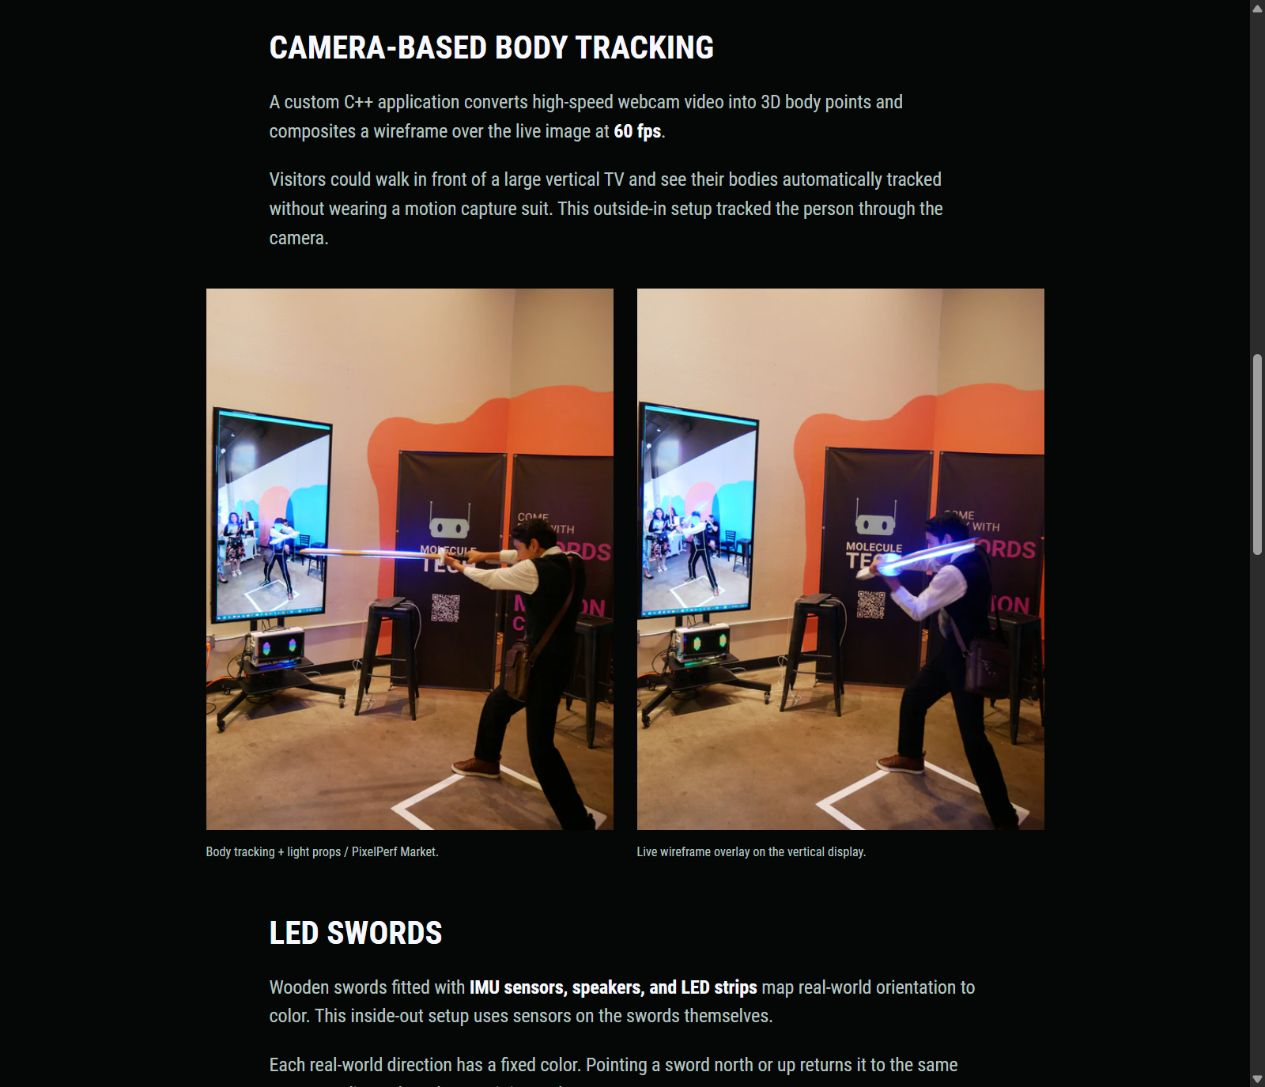
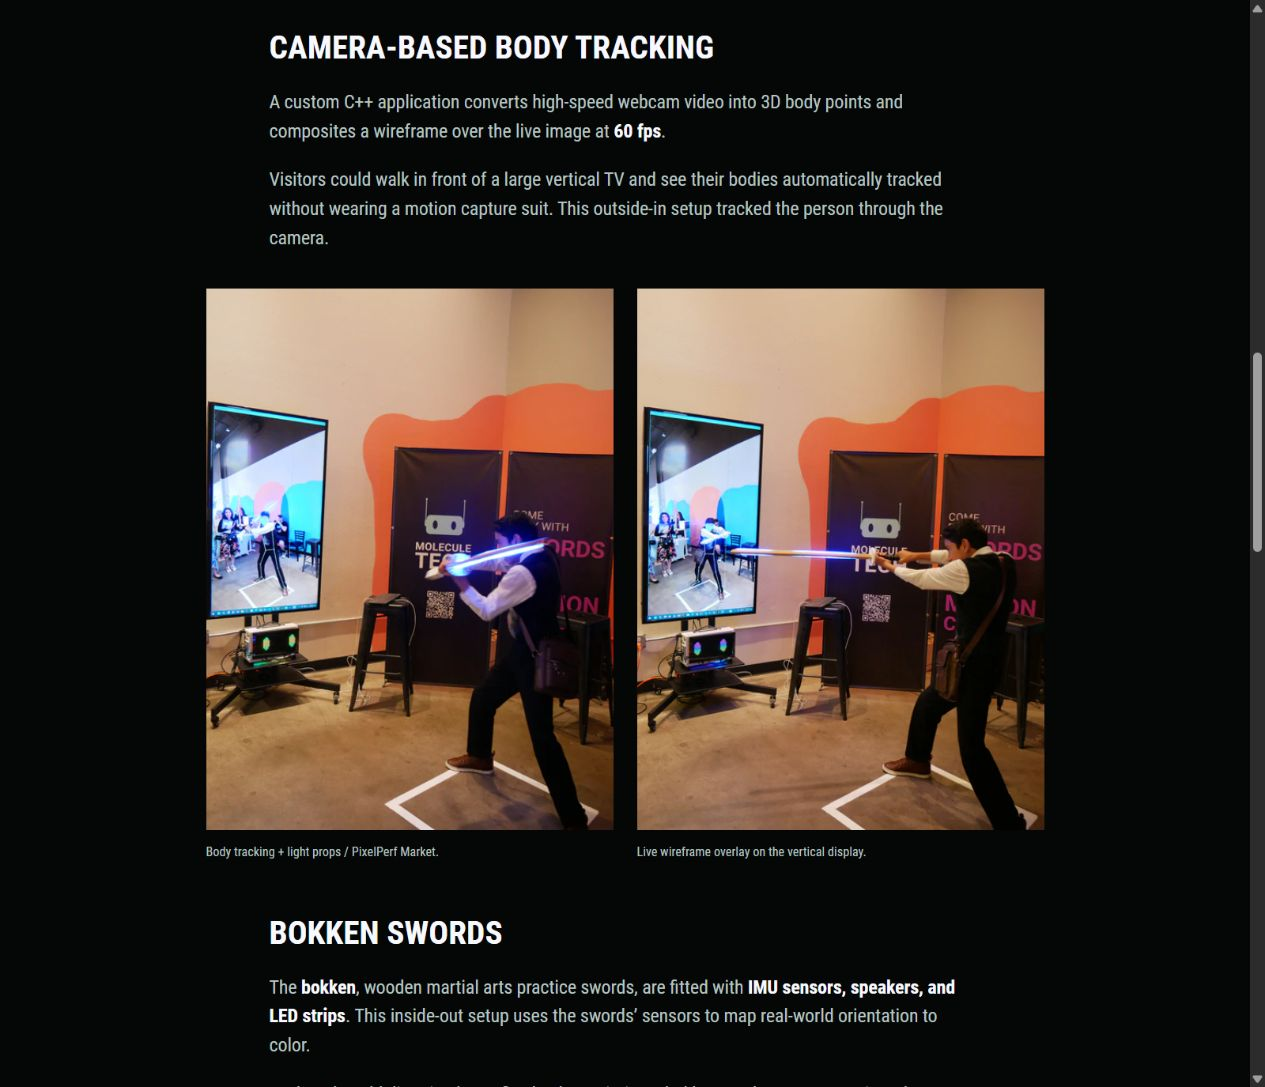
Show bokken windup first and update prop terminology

Changed region(s): [[0.1542, 0.3643, 0.8324, 0.7893], [0.2158, 0.85, 0.7708, 1.0]]

diff --git a/content/work/motion-capture-lightsabers/index.md b/content/work/motion-capture-lightsabers/index.md
@@ -1,19 +1,19 @@
 ---
 title: "Motion Capture + Lightsabers"
-description: "Two motion capture demos: camera-based body tracking at 60 fps, and wooden swords with LEDs that change color with their orientation."
+description: "Two motion capture demos: camera-based body tracking at 60 fps, and bokken swords with LEDs that change color with their orientation."
 weight: 60
 tags: [experimental]
 context: "Molecule / Test installation"
-contribution: "C++ body tracking application + sensor-equipped wooden swords"
+contribution: "C++ body tracking application + sensor-equipped bokken"
 projectContext: "An independent test installation at PixelPerf Market, Moongoat Coffee"
 aliases: ["/work/moongoat/", "/experiments/moongoat/"]
 hero: "portfolio/molecule/pixelperf-body-tracking.jpg"
-heroAlt: "A visitor using an illuminated sword beside the vertical body-tracking screen at PixelPerf Market."
+heroAlt: "A visitor using an illuminated bokken beside the vertical body-tracking screen at PixelPerf Market."
 heroCaption: "PixelPerf Market / Moongoat Coffee."
 imageClass: "uncropped"
 ---
 
-A small test installation at PixelPerf Market, Moongoat Coffee, demonstrated camera-based body tracking and orientation-controlled light props.
+A small test installation at PixelPerf Market, Moongoat Coffee, demonstrated camera-based body tracking and orientation-controlled bokken.
 
 ## Camera-based body tracking
 
@@ -22,23 +22,23 @@ A custom C++ application converts high-speed webcam video into 3D body points an
 Visitors could walk in front of a large vertical TV and see their bodies automatically tracked without wearing a motion capture suit. This outside-in setup tracked the person through the camera.
 
 {{< media-grid >}}
-{{< work-image source="portfolio/molecule/pixelperf-sword-pointing.jpg" alt="A visitor pointing an illuminated sword toward the body-tracking screen." caption="Body tracking + light props / PixelPerf Market." >}}
-{{< work-image source="portfolio/molecule/pixelperf-sword-movement.jpg" alt="A visitor moving an illuminated sword while the vertical screen shows the tracked body." caption="Live wireframe overlay on the vertical display." >}}
+{{< work-image source="portfolio/molecule/pixelperf-sword-movement.jpg" alt="A visitor winding up an illuminated bokken beside the body-tracking display." caption="Body tracking + light props / PixelPerf Market." >}}
+{{< work-image source="portfolio/molecule/pixelperf-sword-pointing.jpg" alt="A visitor pointing an illuminated bokken toward the body-tracking screen." caption="Live wireframe overlay on the vertical display." >}}
 {{< /media-grid >}}
 
-## LED swords
+## Bokken swords {#led-swords}
 
-Wooden swords fitted with **IMU sensors, speakers, and LED strips** map real-world orientation to color. This inside-out setup uses sensors on the swords themselves.
+The **bokken**, wooden martial arts practice swords, are fitted with **IMU sensors, speakers, and LED strips**. This inside-out setup uses the swords' sensors to map real-world orientation to color.
 
-Each real-world direction has a fixed color. Pointing a sword north or up returns it to the same corresponding color, wherever it is used.
+Each real-world direction has a fixed color. Pointing a bokken north or up returns it to the same corresponding color, wherever it is used.
 
-{{< work-video source="portfolio/molecule/pixelperf-sword-demo.mp4" poster="portfolio/molecule/pixelperf-sword-demo.jpg" class="portrait" label="Play the orientation-controlled lightsaber demonstration at PixelPerf Market" caption="Orientation-controlled lightsaber demo / PixelPerf Market." >}}
+{{< work-video source="portfolio/molecule/pixelperf-sword-demo.mp4" poster="portfolio/molecule/pixelperf-sword-demo.jpg" class="portrait" label="Play the orientation-controlled bokken demonstration at PixelPerf Market" caption="Orientation-controlled bokken demo / PixelPerf Market." >}}
 
-### Lightsaber prototypes
+### Bokken prototypes {#lightsaber-prototypes}
 
 {{< media-grid >}}
-{{< work-image source="portfolio/molecule/lightsaber-prototype-held.jpg" alt="An early wooden lightsaber prototype held horizontally, with the exposed LED strip illuminated in several colors." caption="Early wooden lightsaber prototype." >}}
-{{< work-image source="portfolio/molecule/lightsaber-prototype-lit.jpg" class="portrait" alt="An illuminated wooden lightsaber prototype leaning upright against a wall." caption="Illuminated prototype." >}}
+{{< work-image source="portfolio/molecule/lightsaber-prototype-held.jpg" alt="An early bokken lightsaber prototype held horizontally, with the exposed LED strip illuminated in several colors." caption="Early bokken lightsaber prototype." >}}
+{{< work-image source="portfolio/molecule/lightsaber-prototype-lit.jpg" class="portrait" alt="An illuminated bokken prototype leaning upright against a wall." caption="Illuminated bokken prototype." >}}
 {{< /media-grid >}}
 
 ## Custom Patch computer
@@ -53,8 +53,8 @@ Patch is a custom computer with an animated LED matrix display.
 ## PixelPerf Market
 
 {{< media-grid >}}
-{{< work-image source="portfolio/molecule/pixelperf-installation-wide.jpg" alt="Visitors watching the sword and body-tracking demonstration inside Moongoat Coffee." caption="The test installation at Moongoat Coffee." >}}
-{{< work-image source="portfolio/molecule/pixelperf-sword-visitor.jpg" alt="A young visitor holding an illuminated sword beside the display and Molecule banner." caption="PixelPerf Market / Moongoat Coffee." >}}
+{{< work-image source="portfolio/molecule/pixelperf-installation-wide.jpg" alt="Visitors watching the bokken and body-tracking demonstration inside Moongoat Coffee." caption="The test installation at Moongoat Coffee." >}}
+{{< work-image source="portfolio/molecule/pixelperf-sword-visitor.jpg" alt="A young visitor holding an illuminated bokken beside the display and Molecule banner." caption="PixelPerf Market / Moongoat Coffee." >}}
 {{< /media-grid >}}
 
 ## Current hardware work

diff --git a/docs/portfolio/31-molecule-selected-media.md b/docs/portfolio/31-molecule-selected-media.md
@@ -7,11 +7,11 @@ Russell supplied ten specific archive files for Motion Capture + Lightsabers, gr
 ## Applied presentation
 
 - The landscape photograph of a visitor beside the body-tracking screen is the new lead on Home, Work, and the case study.
-- Two portrait photographs show a visitor using the swords in front of the live tracking display.
+- Two portrait photographs show a visitor using the bokken in front of the live tracking display, with the windup before the extended pose.
 - The event GIF becomes a manually played portrait video beneath the orientation-to-color description.
-- The two prototype photographs sit together under Lightsaber prototypes, distinct from the event documentation.
+- The two prototype photographs sit together under Bokken prototypes, distinct from the event documentation.
 - Custom Patch computer has its own section with the supplied MP4 and a video version of the LED matrix GIF.
-- Two additional event photographs show the wider installation and another visitor using a sword.
+- Two additional event photographs show the wider installation and another visitor using a bokken.
 
 All ten selections are represented as seven photographs and three videos. The project remains Experimental. The original 60 fps body-tracking account and fixed real-world orientation-to-color behavior remain as Russell described them. The recording frame rates do not independently measure the application's performance.
 
@@ -31,14 +31,18 @@ The copies total 98,003,186 bytes. Every copy was verified against the recorded 
 | --- | --- | --- |
 | `20230509 204759-1.mp4` | 1920 × 1080 | Patch LED eyes video, 10.32 s |
 | `ezgif-5-5d129b59f5.gif` | 600 × 338 | Patch LED animation video, 7.24 s |
-| `20220926_185841.jpg` | 1758 × 792 | Held lightsaber prototype |
-| `20220926_200930.jpg` | 1816 × 4032 | Upright illuminated prototype |
+| `20220926_185841.jpg` | 1758 × 792 | Held bokken lightsaber prototype |
+| `20220926_200930.jpg` | 1816 × 4032 | Upright illuminated bokken prototype |
 | `6B6893E6-EF2E-41E2-8B7A-221764C88E1A.jpeg` | 4592 × 3448 | New lead photograph |
-| `20230903_120930.gif` | 540 × 960 | Orientation-controlled sword demonstration, 6 s |
-| `C92D9BF1-DD97-4BCA-88A7-83F49037B4C7.jpeg` | 3448 × 4592 | Visitor pointing a sword toward the display |
-| `49DF8843-13AC-41F3-9E11-BD25674B0334.jpeg` | 3448 × 4592 | Visitor moving the sword beside the tracking display |
+| `20230903_120930.gif` | 540 × 960 | Orientation-controlled bokken demonstration, 6 s |
+| `C92D9BF1-DD97-4BCA-88A7-83F49037B4C7.jpeg` | 3448 × 4592 | Visitor pointing a bokken toward the display |
+| `49DF8843-13AC-41F3-9E11-BD25674B0334.jpeg` | 3448 × 4592 | Visitor winding up the bokken beside the tracking display |
 | `20230902_104130.jpg` | 4000 × 1848 | Wider event view |
 | `IMG_0741.JPG` | 3520 × 1980 | Visitor beside the banner and display |
+
+Russell subsequently clarified that the props are bokken, wooden martial arts practice swords. Public copy now uses that term, defined on the project and About pages. The first body-tracking pair shows `pixelperf-sword-movement.jpg` first and `pixelperf-sword-pointing.jpg` second. Only the image and its descriptive alt text change slots. “Body tracking + light props / PixelPerf Market.” remains the first caption and “Live wireframe overlay on the vertical display.” remains the second. Preserved source files and asset filenames stay unchanged.
+
+The windup-first order and both unchanged captions were checked at 1280px, 390px, and 320px. Updated terminology rendered on Home, Work, and About at 1280px and 390px without horizontal overflow. The production build and ten-route content/asset checks passed. Preview restarted after the copy changes.
 
 Three supplied `.jpeg` files are MPO containers with a second stored photographic frame. Used the primary frame and applied its EXIF orientation. The portrait prototype also needed its stored rotation baked in. These exports retain native dimensions and use JPEG quality 95 with no chroma subsampling. The other upright JPEGs are copied without re-encoding. Hugo produces responsive WebP derivatives at quality 90 with Lanczos resizing.
 

diff --git a/docs/portfolio/18-moongoat-demonstrations.md b/docs/portfolio/18-moongoat-demonstrations.md
@@ -20,9 +20,10 @@ The Moongoat setup contained two distinct demonstrations.
 - It demonstrated real-time outside-in motion capture without suits.
 - Russell reports that the application ran at 60 fps. This is his account of the demonstration, not a benchmark measured during this website work.
 
-## Inside-out: wooden swords with IMU sensors
+## Inside-out: bokken with IMU sensors
 
-- The wooden swords were fitted with IMU sensors, speakers, and LED light strips.
+- Russell subsequently identified the swords as bokken, wooden martial arts practice swords, and requested that terminology throughout the portfolio.
+- The bokken were fitted with IMU sensors, speakers, and LED light strips.
 - The LED colors changed deterministically with the direction the sword pointed in real-world space.
 - A given direction corresponded to the same color wherever the sword was used. Russell gives north and up as examples.
 - Russell describes this as inside-out motion capture.
@@ -37,13 +38,13 @@ Keep the event hardware distinct from later Saga firmware and hardware revisions
 
 At Moongoat Coffee, visitors could see their bodies tracked live on a vertical TV. I wrote the C++ motion capture application, which converted webcam video into 3D body points and composited a wireframe over the live image at 60 fps.
 
-I also brought wooden swords fitted with IMU sensors and LEDs. Each sword's color followed its real-world orientation: pointing it in the same direction produced the same color.
+I also brought bokken fitted with IMU sensors and LEDs. Each bokken's color followed its real-world orientation: pointing it in the same direction produced the same color.
 
 ## Short work-card alternative
 
 **Molecule at Moongoat Coffee**
 
-Custom C++ body tracking + IMU-equipped LED swords.
+Custom C++ body tracking + IMU-equipped bokken.
 
 ## Project-page draft
 
@@ -53,9 +54,9 @@ Visitors could walk in front of the vertical TV and see a wireframe over their b
 I wrote a C++ application that converted the high-speed webcam stream into 3D body points, drew the wireframe, and composited it back over the video at 60 fps.
 The demonstration captured body movement without a motion capture suit.
 
-### IMU-equipped wooden swords
+### IMU-equipped bokken
 
-The wooden swords contained IMU sensors, speakers, and LED strips.
+The bokken contained IMU sensors, speakers, and LED strips.
 Their colors were determined by orientation in real-world space.
 Pointing a sword north or up would produce the same corresponding color wherever it was used.
 

diff --git a/AGENTS.md b/AGENTS.md
@@ -18,6 +18,7 @@ Russell requires the preview script to be restarted after website updates.
 - Russell leads the current game's performance initiative through tools, education, and team culture change. Performance is everyone's responsibility. Do not describe him as individually responsible for all game performance. Keep this leadership context in the planning notes and keep public copy focused on concrete tools for this iteration.
 - Hearthstone's credits card follows its horizontal overview, before the additional prose and gameplay media. Russell removed the closing press-kit/artwork/contribution-explanation paragraph. Keep source provenance in the planning notes without restoring that public paragraph.
 - Motion Capture + Lightsabers uses Russell's selected Patch, prototype, and PixelPerf Market media, recorded in `docs/portfolio/assets/molecule-selected-media.json`. Keep prototype images distinct from event documentation. Preserve original photo framing and upright orientation. Motion clips use native controls, posters, no autoplay, and source-width display caps.
+- Refer to the Moongoat sword props as bokken, introduced as wooden martial arts practice swords. The first body-tracking photo pair shows the windup (`pixelperf-sword-movement.jpg`) before the extended pose (`pixelperf-sword-pointing.jpg`). Keep its two captions in their original positions.
 - Preserve original media copies, including GIFs and source videos, in organized `source-media/` folders with original filenames and unchanged bytes. Keep this directory outside Hugo's mounts. Record repository source paths and hashes alongside the prepared website assets in the media manifest.
 - Header navigation uses mint only for the active section (`aria-current="page"`). Other links stay ghost white. Hover uses an underline.
 - All projects share `content/work/`. Classify them with `tags: [professional]` or `tags: [experimental]`. Do not split their source pages into separate collections by category.

diff --git a/docs/portfolio/20-work-focused-editorial-voice.md b/docs/portfolio/20-work-focused-editorial-voice.md
@@ -83,7 +83,7 @@ This is a candidate for the shorter introduction, not an additional headline to 
 
 **Molecule at Moongoat Coffee**
 
-Two motion capture demos: body tracking from webcam video, with a live wireframe overlay at 60 fps, and wooden swords whose LED colors follow their real-world orientation.
+Two motion capture demos: body tracking from webcam video, with a live wireframe overlay at 60 fps, and bokken whose LED colors follow their real-world orientation.
 
 ### Moongoat / project description
 
@@ -91,11 +91,11 @@ Two motion capture demos: body tracking from webcam video, with a live wireframe
 
 A custom C++ application converts high-speed webcam video into 3D body points and composites a wireframe over the live image at 60 fps. Visitors could walk in front of a large vertical TV and see their bodies tracked without a motion capture suit.
 
-**Orientation-controlled LED swords**
+**Orientation-controlled bokken**
 
-Wooden swords fitted with IMU sensors, speakers, and LED strips map real-world orientation to color. Pointing a sword in the same direction produces the same corresponding color, wherever it is used.
+Bokken fitted with IMU sensors, speakers, and LED strips map real-world orientation to color. Pointing a bokken in the same direction produces the same corresponding color, wherever it is used.
 
-Contribution: **C++ application + sensor-equipped swords — Russell Jahn.**
+Contribution: **C++ application + sensor-equipped bokken — Russell Jahn.**
 
 The source facts remain those recorded in [Russell's account](18-moongoat-demonstrations.md). Speaker behavior is still unspecified.
 

diff --git a/docs/portfolio/10-questions-and-decisions.md b/docs/portfolio/10-questions-and-decisions.md
@@ -213,3 +213,7 @@ Russell supplied ten specific files for the custom Patch computer, lightsaber pr
 ### 2026-10-25 — Preserve original portfolio media in the repository
 
 Russell requested organized copies of the GIFs and original media in the portfolio source. Preserved all ten selected Molecule files under `source-media/molecule/`, grouped into Patch computer, lightsaber prototypes, and PixelPerf Market/date folders. Original filenames and bytes are retained. The manifest links each repository copy to its VADER source and prepared website asset. See [the source-media index](../../source-media/README.md).
+
+### 2026-10-25 — Bokken terminology and windup-first photos
+
+Russell identified the props as bokken, wooden martial arts practice swords, and requested that wording throughout the portfolio. Updated public project copy, About, accessible image/video descriptions, and the current copy drafts. He also requested the windup image before the extended pose in the first body-tracking photo pair. Swapped the image sources and their alt text while keeping the two captions in their original positions. See [the media record](31-molecule-selected-media.md).

diff --git a/docs/portfolio/02-evidence-and-cv-review.md b/docs/portfolio/02-evidence-and-cv-review.md
@@ -79,6 +79,9 @@ Russell says he is leading the performance initiative and transforming the team 
 
 Capture the leadership context in notes. Russell does not necessarily want it emphasized on this creative portfolio. For this iteration, public copy names automated art performance benchmarking and client performance monitoring without an individual ownership claim. See [Blizzard project responsibilities](30-blizzard-project-responsibilities.md).
 
+**S13 — Russell's bokken clarification, 2026-10-25.**
+Russell identifies the wooden props as bokken, wooden martial arts practice swords, and requests that terminology throughout the portfolio. Use bokken for these props and define the term in longer descriptions. Keep the broader lightsaber project name and the distinction between these event props and later hardware revisions.
+
 ## Claim review
 
 | Claim                                                                                                | Basis                               | How to use it                                                                             |

diff --git a/content/about/_index.md b/content/about/_index.md
@@ -40,7 +40,7 @@ In my current role at Blizzard on an unannounced game, I work heavily on 3D grap
 
 Alongside that work, I'm building lightsaber and motion capture hardware as Molecule. I'm doing more embedded development so I can make the hardware + software + art myself.
 
-At [Moongoat Coffee](/work/moongoat/), I showed a custom C++ application that tracked people's bodies from a webcam and composited a wireframe over the live video at 60 fps. I also brought wooden swords with motion sensors and LEDs that changed color based on their orientation in real-world space.
+At [Moongoat Coffee](/work/moongoat/), I showed a custom C++ application that tracked people's bodies from a webcam and composited a wireframe over the live video at 60 fps. I also brought **bokken**, wooden martial arts practice swords fitted with motion sensors and LEDs that changed color based on their orientation in real-world space.
 
 ## { my professional experience }
 
